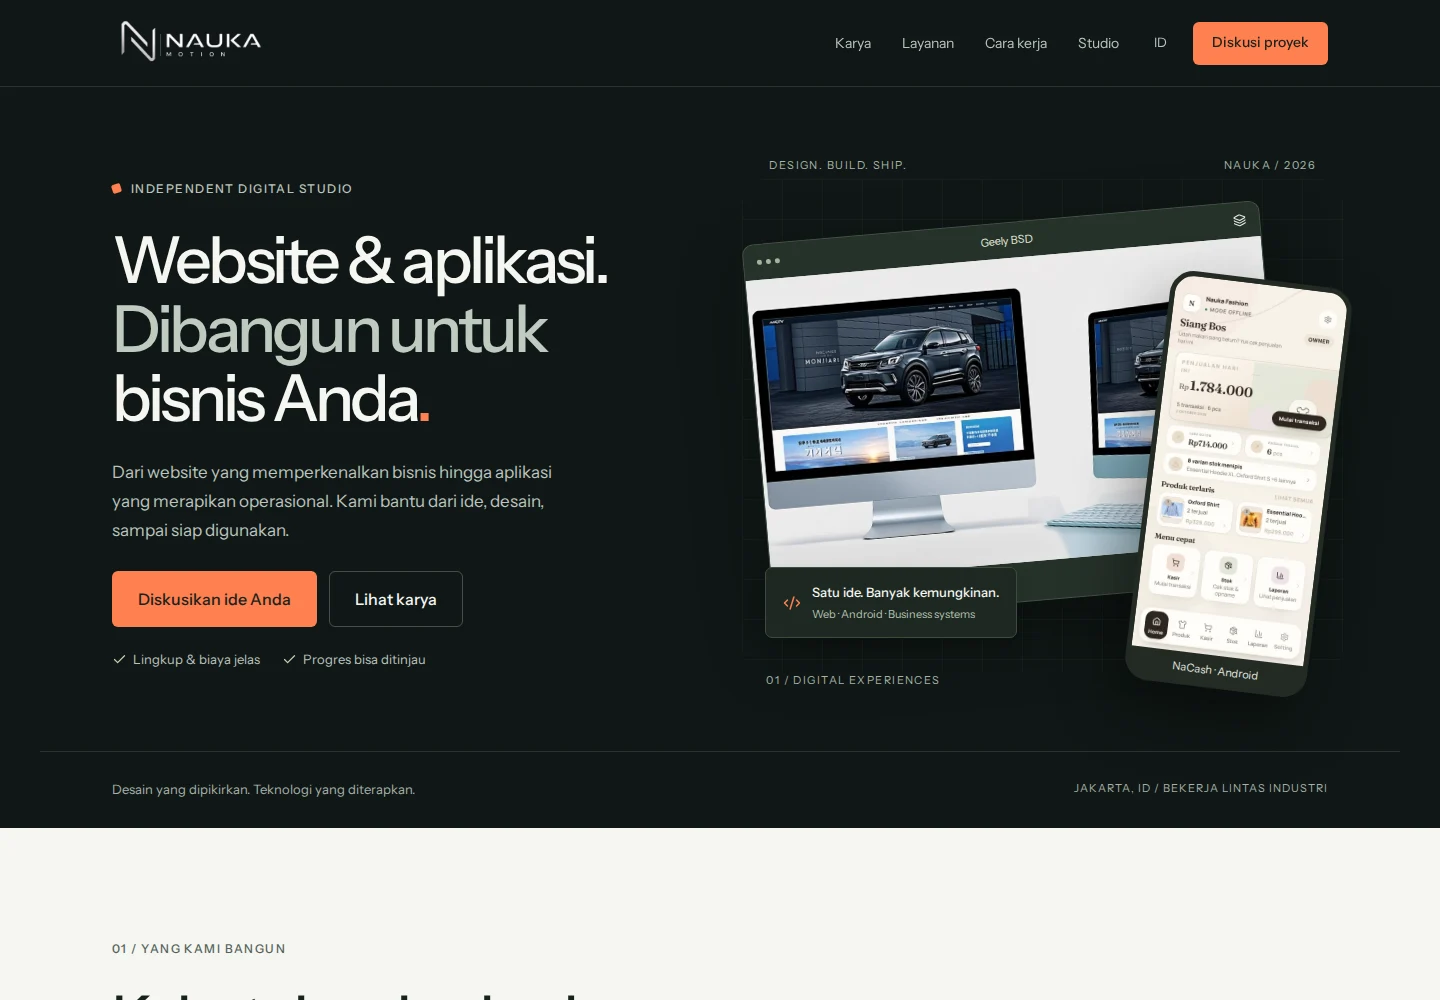
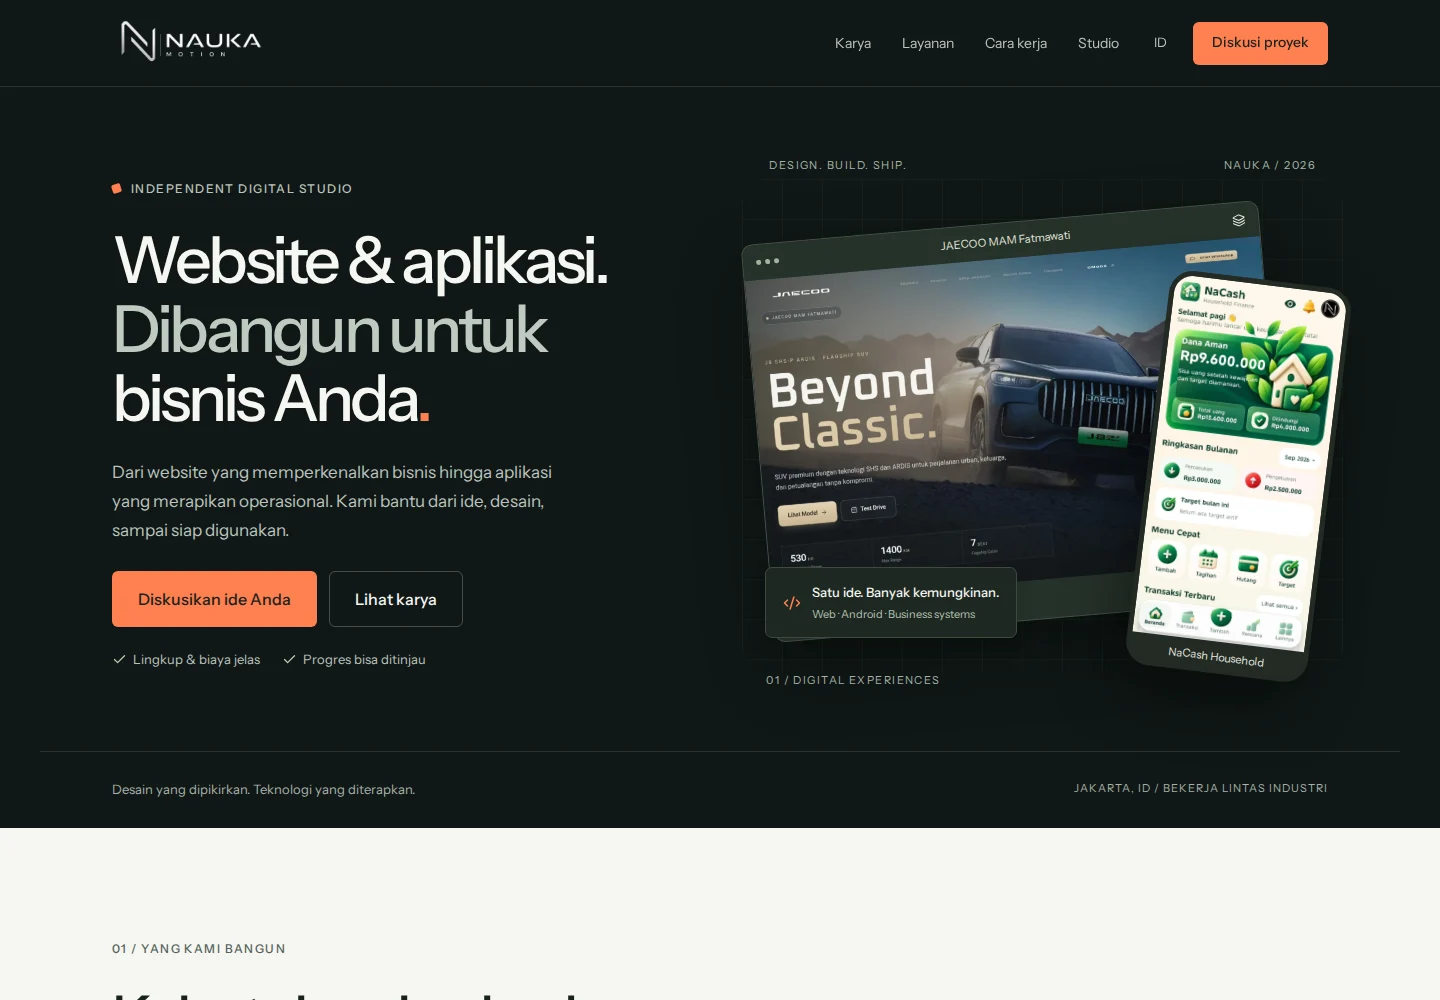
feat: showcase JAECOO and NaCash Household in the hero
Use the owner-provided screenshots as local WebP assets with their original aspect ratios and accurate project labels. Keep hero selection independent of CMS featured ordering.

Refresh browser previews, verify build and changed-source lint, and rerun 48 responsive checks. Document the Vercel access limitation and manual Git-reference deploy path.

Changed region(s): [[0.5, 0.217, 0.9375, 0.713]]

diff --git a/src/components/studio/MarketingSections.tsx b/src/components/studio/MarketingSections.tsx
@@ -21,13 +21,7 @@ import {
 import type { Locale } from "@/lib/server-locale";
 import type { FeaturedProject } from "@/lib/cms";
 
-export function HomeHero({
-  locale,
-  project,
-}: {
-  locale: Locale;
-  project?: FeaturedProject;
-}) {
+export function HomeHero({ locale }: { locale: Locale }) {
   const id = locale === "id";
   return (
     <section className="nm-hero">
@@ -97,33 +91,23 @@ export function HomeHero({
                 <i />
                 <i />
               </span>
-              <span>{project?.name ?? "Nauka Motion"}</span>
+              <span>JAECOO MAM Fatmawati</span>
               <Layers3 size={13} />
             </div>
-            {project ? (
-              <div className="nm-browser-image">
-                <Image
-                  src={project.cover}
-                  alt={`Preview ${project.name}`}
-                  fill
-                  sizes="(max-width: 767px) 90vw, 43vw"
-                  priority
-                  unoptimized
-                />
-              </div>
-            ) : (
-              <div className="nm-browser-empty">
-                <Code2 size={36} />
-                <span>
-                  {id
-                    ? "Website & sistem untuk bisnis Anda"
-                    : "Websites & systems for your business"}
-                </span>
-                <Link href="/work">
-                  {id ? "Jelajahi karya" : "Explore work"}
-                </Link>
-              </div>
-            )}
+            <div className="nm-browser-image">
+              <Image
+                src="/showcase/jaecoo-fatmawati.webp"
+                alt={
+                  id
+                    ? "Tampilan website JAECOO MAM Fatmawati dengan showcase J8"
+                    : "JAECOO MAM Fatmawati website showcasing the J8"
+                }
+                fill
+                sizes="(max-width: 767px) 90vw, 43vw"
+                priority
+                unoptimized
+              />
+            </div>
             <div className="nm-browser-caption">
               <span>{id ? "WEBSITE & WEB APP" : "WEBSITES & WEB APPS"}</span>
               <span>
@@ -134,17 +118,23 @@ export function HomeHero({
           <Link
             href="/work/nacash"
             className="nm-phone-preview"
-            aria-label={id ? "Lihat produk NaCash" : "Explore NaCash"}
+            aria-label={
+              id ? "Lihat produk NaCash Household" : "Explore NaCash Household"
+            }
           >
             <Image
-              src="/showcase/nacash-dashboard.webp"
-              alt="Tampilan aplikasi NaCash Fashion: penjualan, stok, dan laporan"
-              width={390}
-              height={844}
+              src="/showcase/nacash-household.webp"
+              alt={
+                id
+                  ? "Tampilan NaCash Household: dana aman, ringkasan bulanan, dan menu keuangan"
+                  : "NaCash Household: available funds, monthly overview, and finance tools"
+              }
+              width={739}
+              height={1536}
               priority
               unoptimized
             />
-            <span className="nm-phone-caption">NaCash · Android</span>
+            <span className="nm-phone-caption">NaCash Household</span>
           </Link>
           <div className="nm-build-note">
             <Code2 size={18} />

diff --git a/src/app/page.tsx b/src/app/page.tsx
@@ -49,7 +49,7 @@ export default async function HomePage() {
             __html: JSON.stringify(schema).replace(/</g, "\\u003c"),
           }}
         />
-        <HomeHero locale={locale} project={featuredProjects[0]} />
+        <HomeHero locale={locale} />
         <ServiceSection locale={locale} />
         <WorkSection locale={locale} projects={featuredProjects} />
         <TrustSection locale={locale} />

diff --git a/src/app/studio.css b/src/app/studio.css
@@ -402,11 +402,11 @@ select {
 }
 .nm-browser-image {
   position: relative;
-  aspect-ratio: 1.7;
-  background: #e6e9e3;
+  aspect-ratio: 1.6;
+  background: #151d24;
 }
 .nm-browser-image img {
-  object-fit: cover;
+  object-fit: contain;
 }
 .nm-browser-empty {
   min-height: 220px;

diff --git a/docs/RELAUNCH.md b/docs/RELAUNCH.md
@@ -8,6 +8,7 @@ Situs diposisikan sebagai studio developer independen yang menjual jasa website,
 
 - Desain charcoal, off-white, dan orange, dengan tipografi Instrument Sans dan Fraunces yang dibundel lokal.
 - Homepage menghubungkan layanan, karya, alasan bekerja bersama Nauka, proses pengerjaan, FAQ, dan diskusi proyek.
+- Showcase hero memakai screenshot JAECOO MAM Fatmawati dan NaCash Household yang diberikan pemilik, dengan proporsi asli dan aset WebP lokal. Pemilihan showcase hero tidak bergantung pada urutan proyek unggulan CMS.
 - Halaman layanan menjelaskan keluaran proyek; halaman portofolio, kategori, detail proyek, studio, dan kontak memakai sistem visual yang sama.
 - NaCash mendapat halaman produk internal dengan screenshot asli aplikasi Fashion, berlabel data contoh.
 - Navigasi mobile, tautan lompat ke konten, fokus keyboard, reduced motion, dan pergantian bahasa Indonesia/Inggris.
@@ -61,3 +62,11 @@ Screenshot berikut berasal dari build produksi lokal dengan data CMS fallback.
 - [Homepage mobile](previews/home-mobile.webp)
 - [Layanan mobile](previews/services-mobile.webp)
 - [Kontak mobile](previews/contact-mobile.webp)
+
+## Status deployment saat pembaruan hero
+
+Commit relaunch `53f6e33` sudah berada di `main`, namun GitHub belum menampilkan status Vercel untuk commit itu. Penulis GitHub serta email author/committer sesuai dengan commit terdahulu yang berhasil deploy; keduanya menggunakan commit unsigned.
+
+Konektor Vercel tidak dapat membaca proyek di scope `naukacreativedigital-1948s-projects`: API mengembalikan `403 Not authorized`. Karena itu, koneksi Git, riwayat build terbaru, serta pemicu deploy otomatis belum dapat diverifikasi melalui konektor. Ini merupakan batas akses pemeriksaan, bukan bukti penyebab kegagalan autodeploy.
+
+Jika perlu memicu build dari akun pemilik, buka proyek `naukamotion` → Deployments → Create Deployment dan pilih branch `main` atau SHA commit terbaru. Cara ini membuat deployment dari kode terbaru; menu Redeploy pada deployment lama membangun ulang commit deployment lama. Panduan resmi: <https://vercel.com/docs/git#creating-a-deployment-from-a-git-reference>.
